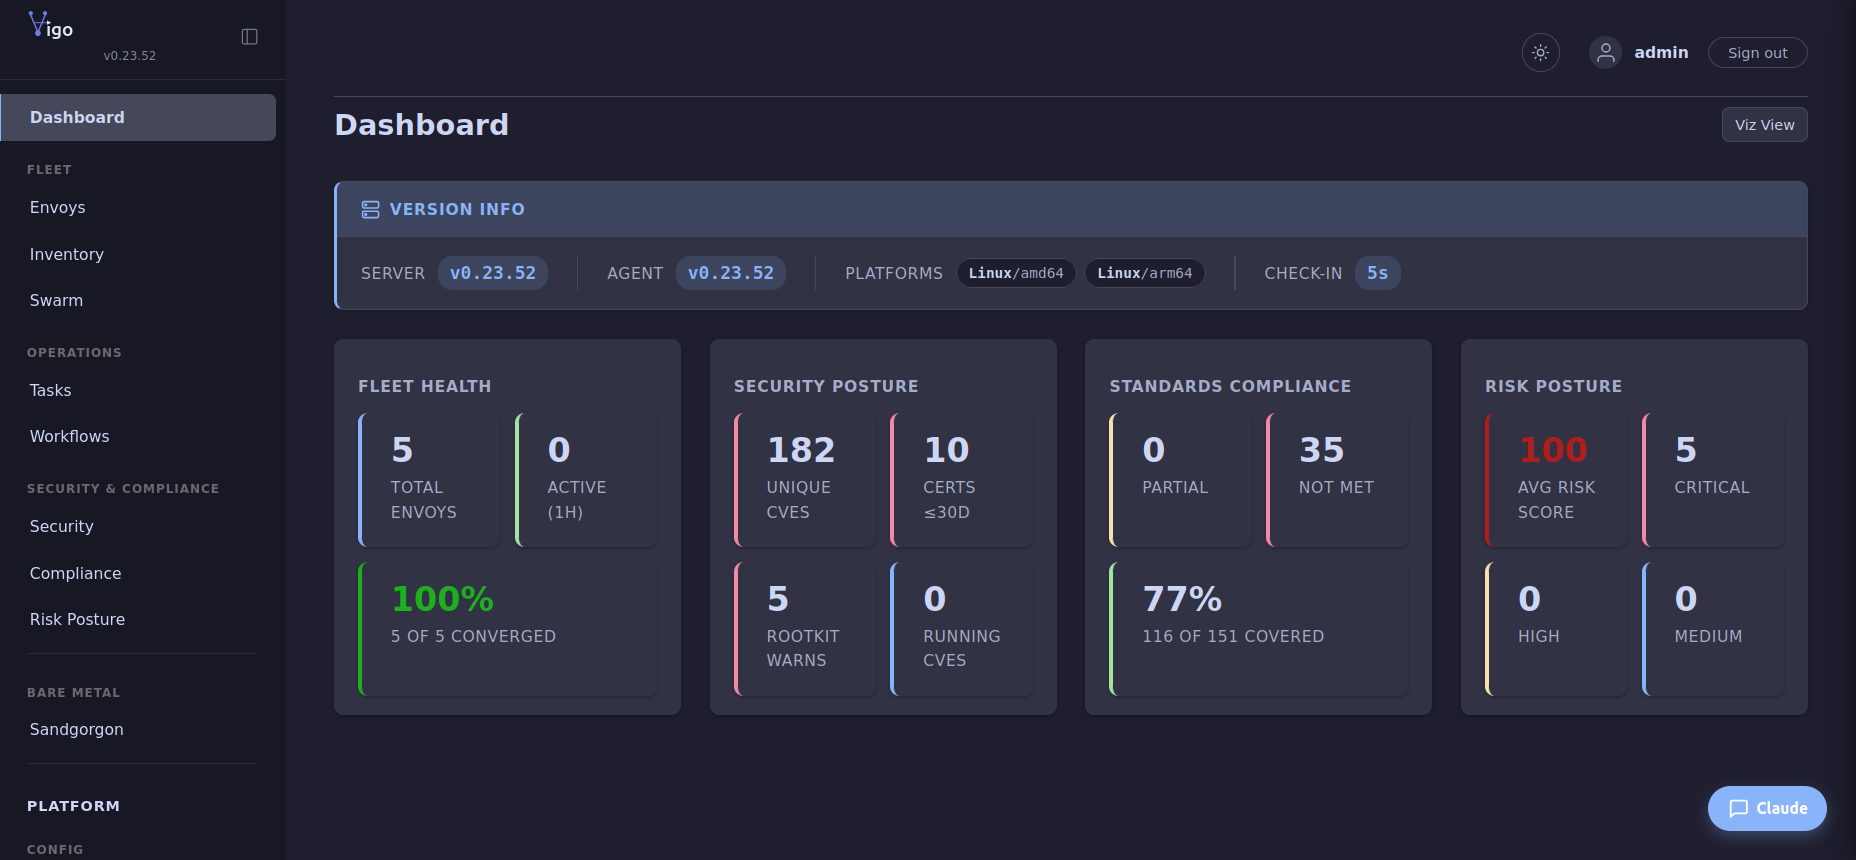
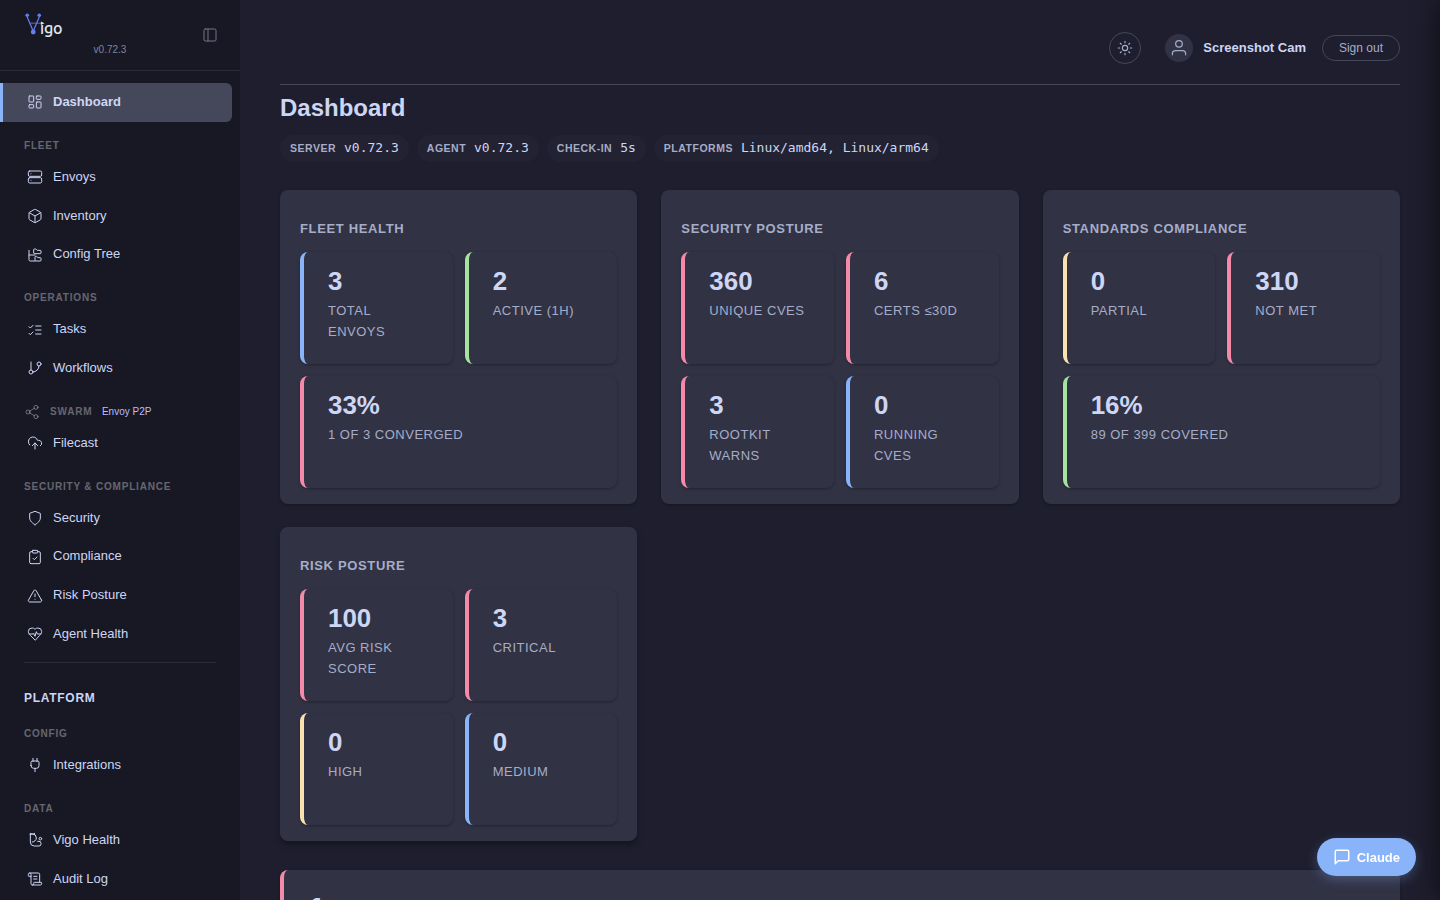
docs: refresh core UI screenshots (Catppuccin Mocha, v0.72.3) + embed in tutorials
Recaptured the 6 stale (0.23.52-era) dashboard-class screenshots against
the live UI via headless Chromium — dashboard, envoys, inventory,
compliance, risk, security — at 1440×900 in dark Mocha, showing the real
3-envoy home-lab fleet on 0.72.3. Embedded the dashboard in tutorial 1
and the compliance page in tutorial 4.

diff --git a/docs/start/your-first-compliance-report.md b/docs/start/your-first-compliance-report.md
@@ -10,6 +10,8 @@ By the end of this page you'll have read your fleet's coverage against a regulat
 
 Open the **Compliance** page in the web UI. Pick a framework (HIPAA, SOC 2, PCI DSS, …). You'll see a **coverage percentage** and a per-control breakdown: which controls are covered, and *how* each one is covered — by a configcrate's claim, a [Connwaer](../concepts/compliance-model.md) check, or a waiver.
 
+![The Compliance page — fleet coverage score, satisfied/partial/not-met counts, and per-framework drill-down](../img/screenshots/vigo.compliance.png)
+
 Your number will be low right now — you've only written one configcrate. That's the point: coverage reflects what you can actually **prove**, not what you hope is true. See [convergence vs compliance](../concepts/convergence-vs-compliance.md) for why these are different questions.
 
 ## 2. Make a control go green

diff --git a/docs/start/stand-up-the-server.md b/docs/start/stand-up-the-server.md
@@ -44,6 +44,8 @@ curl -sSfk https://127.0.0.1:8443/bootstrap | sudo sh
 
 The default trusted-enrollment policy (private + loopback CIDRs) auto-signs this one without a token. Within a check-in interval, **refresh the dashboard — one envoy appears.** That's the server's own machine, now managed.
 
+![The Vigo dashboard — fleet health, security, compliance, and risk at a glance](../img/screenshots/vigo.dashboard.png)
+
 ## Checkpoint
 
 You have: a healthy server, a browser session, and one converging envoy. If the dashboard still shows zero envoys after a minute, see [Install](../howto/operate/install.md#troubleshooting).
